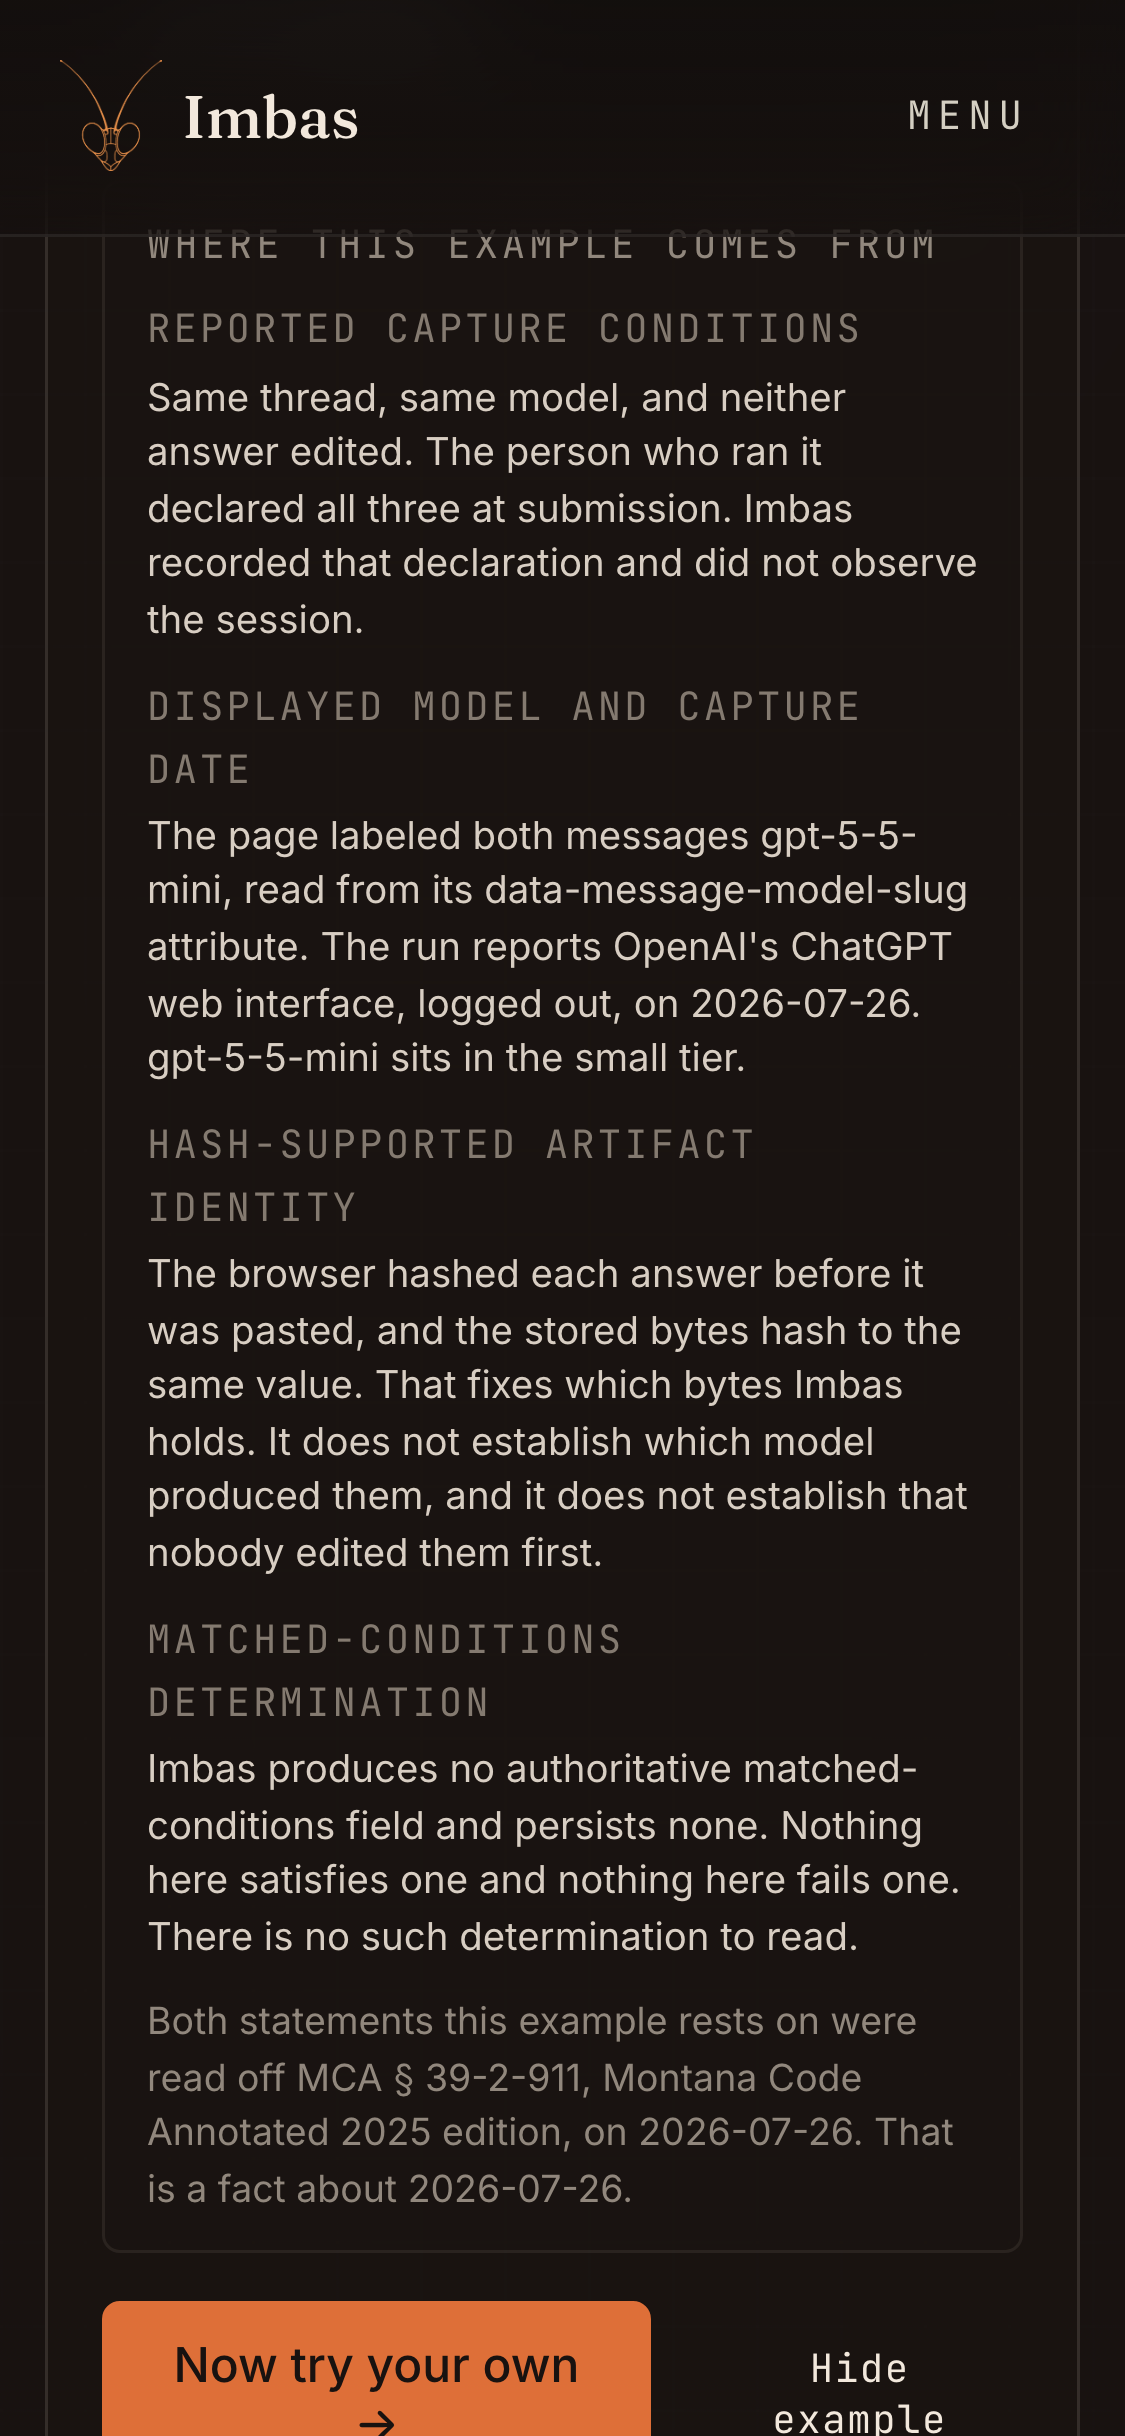
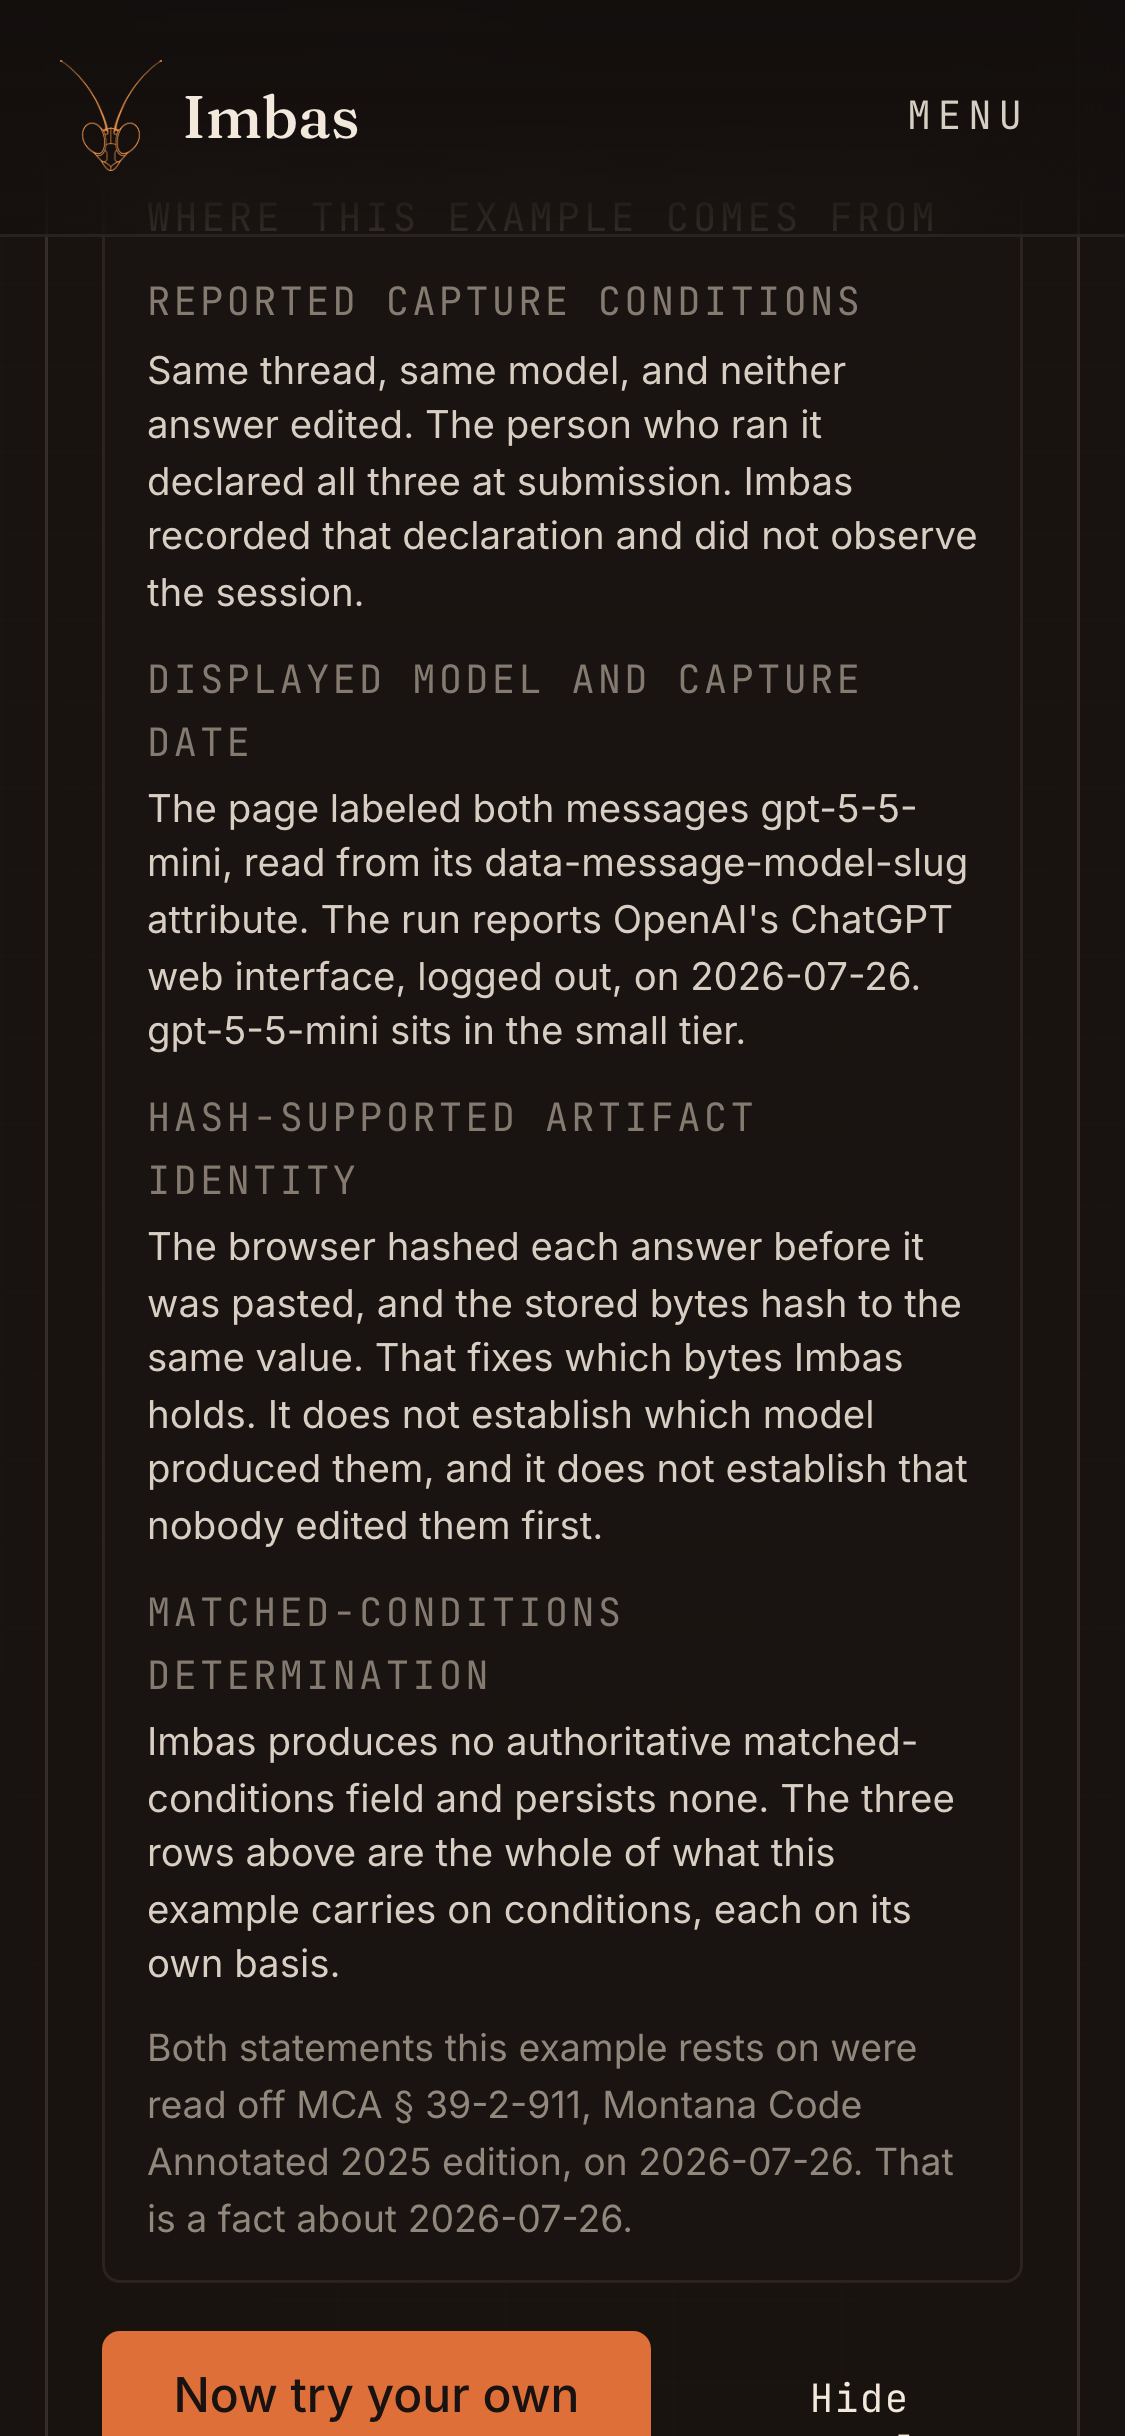
State the matched-conditions row as what the record carries
The row named two verdict outcomes for a field that does not exist, in order
to deny both: "Nothing here satisfies one and nothing here fails one." That
put "fails" in the record's own voice, and naming an outcome the record has no
field for is what puts that outcome on the page. Packet 4.2(3) reaches for the
same phrasing, but the packet is an internal record and the door is a public
surface.

The replacement keeps the first sentence verbatim and states the rest
positively: Imbas produces no authoritative matched-conditions field and
persists none, and the three rows above are the whole of what this example
carries on conditions, each on its own basis. Every proposition survives — no
field is produced, none is persisted, and no determination stands here to
read — and "each on its own basis" holds the packet's separation bar, which a
bare statement of extent would have blurred.

Sibling rows were read for both shapes and neither appears. Row 0's "did not
observe" and row 2's "does not establish" delimit a basis that is stated on
the page, which is claim-to-mechanism fit rather than a manufactured frame.

The new copy wraps to five lines at 375px where the old wrapped to four, so
the block is one line taller and the framed viewport moves with it. Three
baselines follow: both provenance frames, and public-example--mobile, whose
focus element contains the row (scroll_offset 1801 → 1811). Each rendered
byte-identical across three runs before acceptance.

Changed region(s): [[0.0933, 0.0936, 0.8711, 1.0], [0.6844, 0.9672, 0.84, 1.0]]

diff --git a/workbench.bundle.js b/workbench.bundle.js
@@ -31,7 +31,7 @@ If the evidence doesn't get you to a solid number or range, say so outright and 
 
 For each main conclusion, show what it rests on: the facts and the assumptions it depends on. Where something is still unsettled, name it as an open question instead of smoothing it over.
 
[2 lines of base64/hex data omitted]
 .wb-focus:focus-visible { outline: 2px solid ${F.accent}; outline-offset: 2px; }
 .wb-case-card:focus-visible { outline: 2px solid ${F.accent}; outline-offset: 3px; }
 .wb-input:focus-visible { outline: 2px solid rgba(222, 111, 56, 0.55); outline-offset: 2px; border-color: rgba(222, 111, 56, 0.72); }

diff --git a/reader-public-example.js b/reader-public-example.js
@@ -65,7 +65,7 @@ export const PUBLIC_EXAMPLE_PROVENANCE = Object.freeze([
   Object.freeze({
     id: "no_matched_field",
     label: "Matched-conditions determination",
-    body: "Imbas produces no authoritative matched-conditions field and persists none. Nothing here satisfies one and nothing here fails one. There is no such determination to read.",
+    body: "Imbas produces no authoritative matched-conditions field and persists none. The three rows above are the whole of what this example carries on conditions, each on its own basis.",
   }),
 ]);
 

diff --git a/docs/qa/visual-acceptance-harness/manifest.md b/docs/qa/visual-acceptance-harness/manifest.md
@@ -590,14 +590,14 @@ A board that lists only what it covers reads as complete. These are the result s
 
 | field | value |
 | --- | --- |
[1 lines of base64/hex data omitted]
-| bytes | 517387 |
[1 lines of base64/hex data omitted]
+| bytes | 512737 |
 | snapshot | `public-example--mobile.snapshot.txt` |
[2 lines of base64/hex data omitted]
 | snapshot bytes | 1479 |
 | viewport | 375x812@3x (mobile) |
 | url | `/workbench.html`, query `(none)` |
-| framed on | `.wb-demo` at scroll offset 1801 |
+| framed on | `.wb-demo` at scroll offset 1811 |
 | browser | `HeadlessChrome/148.0.7778.96` |
 | state captured | The public example door, opened from the paste box — the loop |
 | expected behaviour | The Montana example runs the loop end to end. The open side reads 'Didn't come up.' because delta 1's open side is empty. The count line names four Omission items and says one is shown, so a single quoted line cannot read as the whole difference. No score and no construct name. |
@@ -606,11 +606,11 @@ A board that lists only what it covers reads as complete. These are the result s
 
 | field | value |
 | --- | --- |
[1 lines of base64/hex data omitted]
-| bytes | 491856 |
[1 lines of base64/hex data omitted]
+| bytes | 493080 |
 | snapshot | `public-example-provenance--desktop.snapshot.txt` |
[1 lines of base64/hex data omitted]
-| snapshot bytes | 2944 |
[1 lines of base64/hex data omitted]
+| snapshot bytes | 2951 |
 | viewport | 1440x900@2x (desktop) |
 | url | `/workbench.html`, query `(none)` |
 | framed on | `.wb-demo__prov` at scroll offset 1744 |
@@ -622,14 +622,14 @@ A board that lists only what it covers reads as complete. These are the result s
 
 | field | value |
 | --- | --- |
[1 lines of base64/hex data omitted]
-| bytes | 433633 |
[1 lines of base64/hex data omitted]
+| bytes | 437579 |
 | snapshot | `public-example-provenance--mobile.snapshot.txt` |
[1 lines of base64/hex data omitted]
-| snapshot bytes | 1940 |
[1 lines of base64/hex data omitted]
+| snapshot bytes | 1947 |
 | viewport | 375x812@3x (mobile) |
 | url | `/workbench.html`, query `(none)` |
-| framed on | `.wb-demo__prov` at scroll offset 2636 |
+| framed on | `.wb-demo__prov` at scroll offset 2645 |
 | browser | `HeadlessChrome/148.0.7778.96` |
 | state captured | The public example door — the four provenance facts, kept apart |
 | expected behaviour | Four labelled rows state four separate facts: what the person declared, what the page displayed plus the tier, what the hashes fix and what they do not, and the matched-conditions field that does not exist end to end. The statute line under them carries its retrieval date rather than a present tense. |
